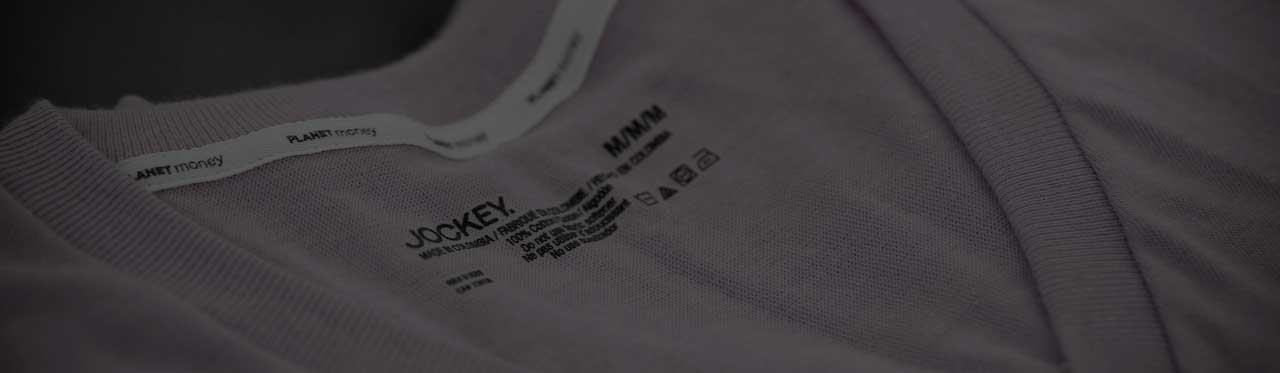
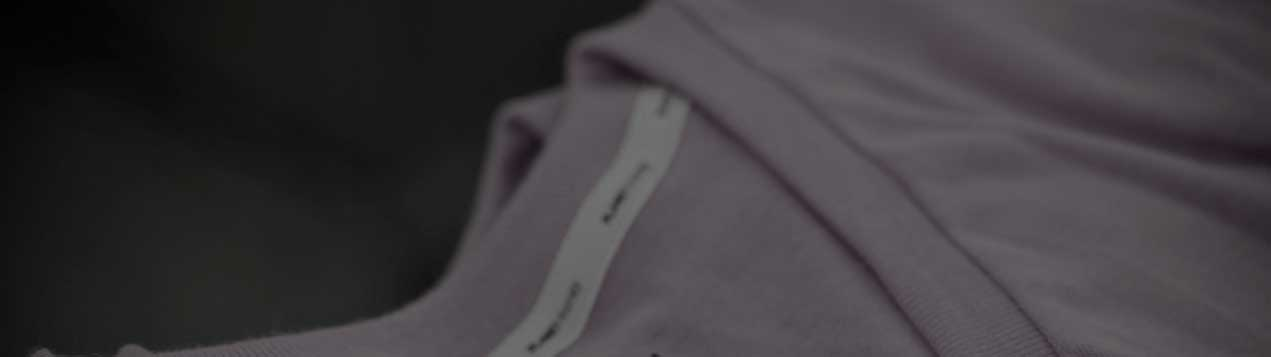
another touch chapter header

diff --git a/less/app.less b/less/app.less
@@ -1660,8 +1660,8 @@ body.chapter-title nav ul#nav-secondary > li.nav-title { display: none; }
         padding-bottom: 20px;
         
         background-color: #eee;
-			background-image: url('@{img-root}/touch-title-header.jpg');
-			background-position: 0 50%;
+			background-image: url('@{img-root}/touch-title-background1.jpg');
+			background-position: 20% 60%;
 			.background-size(cover);
         //.gradient(#eee,#fff,#fff);
         @media @screen-small-above {
@@ -1670,7 +1670,7 @@ body.chapter-title nav ul#nav-secondary > li.nav-title { display: none; }
         }
         //background-color: #487261;
         border-bottom: 2px solid #111;
-        h1, h2 {text-align: left; margin: 0; color: #fff;}
+        h1, h2 {text-align: left; margin: 0; color: #aaa;}
         h1 {
         	font-size: 22px; 
         	margin-bottom: 5px;
